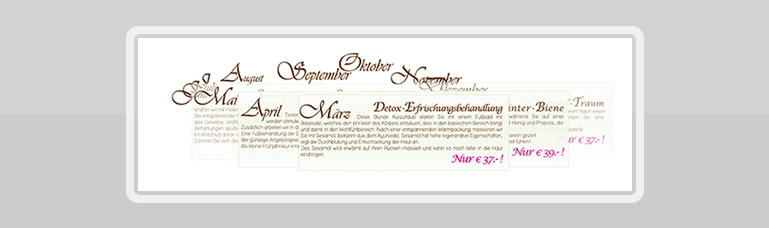
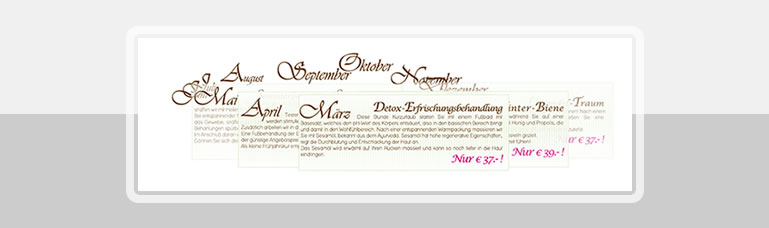
adapt description

Changed region(s): [[0.0, 0.0, 1.0, 0.5219]]

diff --git a/index.htm b/index.htm
@@ -14,7 +14,12 @@
     </div>
     <script type="text/javascript" src="javascript/script.js"></script>
     <script type="text/javascript">
-        $('#cosmo2').cosmo2();
+        $('#cosmo2').cosmo2({
+            nRadiusWidth: 300,
+            nRadiusHeight: 60,            
+            nRotateSpeed: 110,            
+            strBgImageAnimatedOpacity: 'Entwurf-innen_bg.png'
+        });
     </script>
 </body>
 </html>
